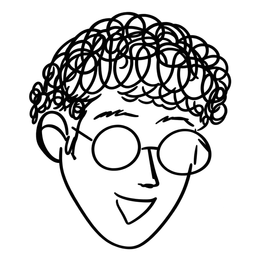
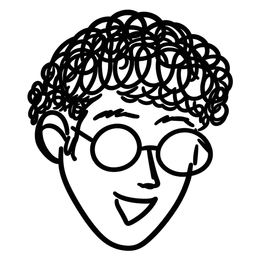
Refine portrait strokes and stack serif header name

Changed region(s): [[0.0938, 0.0312, 0.9375, 1.0]]

diff --git a/src/styles/global.css b/src/styles/global.css
@@ -5,6 +5,13 @@
   font-weight: 45 920;
   font-display: swap;
 }
+@font-face {
+  font-family: 'Cormorant Garamond';
+  src: url('/fonts/CormorantGaramond-Semibold-name.woff2') format('woff2');
+  font-style: normal;
+  font-weight: 600;
+  font-display: swap;
+}
 :root {
   color-scheme: light;
   --bg: #ffffff;
@@ -45,8 +52,9 @@ p { margin-bottom: 1.15em; }
 .skip-link:focus { transform: none; }
 .site-header { border-bottom: 1px solid var(--line); }
 .header-inner { display: flex; align-items: center; min-height: 88px; gap: 22px; position: relative; }
-.site-brand { display: flex; align-items: center; gap: 8px; color: var(--text); font-size: 14px; font-weight: 600; text-decoration: none; white-space: nowrap; }
-.site-brand-icon { flex: none; width: 36px; height: 36px; object-fit: contain; }
+.site-brand { --brand-icon-size: 64.8px; --brand-font-size: 25.2px; display: flex; align-items: center; gap: 12px; color: var(--text); font-family: 'Cormorant Garamond', var(--serif); font-size: var(--brand-font-size); line-height: 1; font-weight: 600; letter-spacing: -.015em; text-decoration: none; white-space: nowrap; }
+.site-brand-icon { flex: none; width: var(--brand-icon-size); height: var(--brand-icon-size); object-fit: contain; }
+.site-brand-name { display: grid; line-height: 1; }
 .site-navigation { display: none; position: absolute; top: 100%; right: 0; z-index: 30; width: 280px; margin: 0; padding: 16px 24px 24px; max-height: calc(100dvh - 88px); overflow-y: auto; background: var(--bg); border: 1px solid var(--line); border-radius: 0 0 6px 6px; box-shadow: 0 10px 24px #14251a0d; font-size: 13px; }
 .site-navigation.is-open { display: grid; gap: 0; }
 .site-navigation > a { padding: 11px 0; color: var(--muted); text-decoration: none; }
@@ -272,11 +280,10 @@ html[lang='ko'] .prose { line-height: 1.9; }
 }
 @media (max-width: 740px) {
   .container { width: calc(100% - 40px); }
-  .header-inner { min-height: 74px; gap: 14px; position: relative; }
-  .site-brand { font-size: 13px; }
-  .site-brand-icon { width: 28px; height: 28px; }
+  .header-inner { min-height: 88px; gap: 14px; padding-block: 16px; flex-wrap: wrap; position: relative; }
+  .site-brand { --brand-icon-size: clamp(40.8px, 12.6vw, 50.4px); --brand-font-size: clamp(18.9px, 5.85vw, 21.6px); }
   .header-controls { margin-left: auto; gap: 8px; }
-  .site-navigation { left: -20px; right: -20px; width: auto; max-height: calc(100dvh - 74px); border-inline: 0; border-radius: 0; box-shadow: 0 10px 15px #14251a06; }
+  .site-navigation { left: -20px; right: -20px; width: auto; max-height: calc(100dvh - 142px); border-inline: 0; border-radius: 0; box-shadow: 0 10px 15px #14251a06; }
   .hero { padding: 45px 0 35px; grid-template-columns: minmax(0, 1fr) clamp(112px, 32vw, 136px); grid-template-areas: 'heading portrait' 'contact contact' 'description description'; grid-template-rows: none; gap: 22px 18px; }
   .hero h1 { font-size: 37px; margin-bottom: 17px; }
   .hero-korean { font-size: 11px; margin-top: 12px; }

diff --git a/README.md b/README.md
@@ -55,7 +55,7 @@ Add future course notes as paired entries in `src/content/coursework/`, after ow
 
 Home combines the profile introduction, research interests, engineering narrative and contact information. On desktop, align the portrait with the start of the biography and keep a compact gap between them; on mobile, pair the name and portrait above the full-width biography. Keep the research/engineering introduction together, followed by one combined M.S./dual-bachelor background paragraph in the same biography block in both languages. Explicitly name the **KAIST–Georgia Tech Dual B.S. Degree Program** and link it to KAIST's official EN/KO program pages configured in `site.dualDegreeProgram`. Link **Prof. Jinseok Choi** (Korean: Jinseok Choi 교수님) to `https://sic-x.kaist.ac.kr/` through shared `site.kaistAdvisor`. The owner omits the parenthetical lab label; keep the lab URL on the advisor name. Use **Prof. Xiaoli Ma** for English Home mentions, including the introductory advisor link and M.S. sentence; Korean retains 교수님. End the biography with a complete localized referral sentence containing the **Curriculum Vitae** hyperlink to the HTML CV, using the body text size. Below the portrait, show only the two-line address followed by five icon-only controls in this order: email, GitHub, Google Scholar, ORCID, LinkedIn. There is no visible email string or separate biography profile row; keep accessible labels and the email icon's copy behavior. Remove the former Get in touch action. The interest line uses a 13px label and 16px topics (15px on mobile), wrapping as needed. Page-title overlines are omitted on Home, collection indexes, detail pages and 404; retain the CV overline. The complete education record remains in CV; Home includes the short academic background requested by the owner. The former `/about/` and `/ko/about/` routes redirect to their localized Home, preserving query strings and contact fragments.
 
-The header brand is **Sangeon Jeon** in both languages, preceded by the owner's cleaned hand-drawn portrait mark; localized biography names and page metadata remain separate. The transparent mark is `public/images/sangeon-jeon-mark.png` (36px displayed,28px on mobile). The same artwork is exported as `public/favicon.ico` (16/32/48px), `public/icons/favicon-16.png`, `favicon-32.png` and `apple-touch-icon.png` (180px), with a white background for tab-theme contrast. Shared `SiteIcons.astro` declares these on both regular pages and legacy redirects. Preserve the owner-selected curly-haired/glasses portrait; raw/reference generation files stay ignored. The header keeps the language selector visible and opens navigation through the top-right menu button at every screen width. Menu order is Home, Publications, Projects, Coursework, Ideas, Blog, CV, with corresponding Korean labels.
+The header brand is **Sangeon Jeon** in both languages, preceded by the owner's cleaned hand-drawn portrait mark; localized biography names and page metadata remain separate. The transparent, thicker-line mark is `public/images/sangeon-jeon-mark.png` (64.8px desktop,40.8-50.4px responsive mobile). The name is stacked as **Sangeon / Jeon** in self-hosted **Cormorant Garamond600**,25.2px desktop and18.9-21.6px mobile, vertically centred beside the image. The open font name subset and its OFL license are in `public/fonts/`. Small headers wrap controls onto another row rather than overlap the brand. The same artwork is exported as `public/favicon.ico` (16/32/48px), `public/icons/favicon-16.png`, `favicon-32.png` and `apple-touch-icon.png` (180px), with a white background for tab-theme contrast. Shared `SiteIcons.astro` declares these on both regular pages and legacy redirects; `v=2` refreshes cached thin-stroke exports. Preserve the owner-selected curly-haired/glasses portrait; raw/reference generation files stay ignored. The header keeps the language selector visible and opens navigation through the top-right menu button at every screen width. Menu order is Home, Publications, Projects, Coursework, Ideas, Blog, CV, with corresponding Korean labels.
 
 Blog and Ideas drafts live only in ignored `reference-private/writing-review/`. Previous CSV selections do not grant publication approval. Commit an article only after the owner explicitly approves that finished text; unapproved full text does not belong in tracked content even with a false release flag.
 

diff --git a/proj.md b/proj.md
@@ -160,7 +160,7 @@ Keep Home's established name/portrait hero and interest line. Use a readable 13p
 
 - Use Astro static generation, TypeScript where useful, and Markdown/MDX content collections. Select supported APIs and compatible dependencies from official documentation at implementation time; this brief does not pin an unverified framework version.
 - Host on GitHub Pages for the user-site root `https://eonsjeon.github.io/`, with GitHub Actions for deployment. Do not add a repository-name base path for this user-site repository.
-- Use a clean **white background**, readable typography, comfortable text widths, clear hierarchy, generous spacing, neutral text/borders, and a limited accent color. The header brand is **Sangeon Jeon** in both languages, independent of localized biography names and metadata. Place the owner's cleaned hand-drawn portrait mark immediately before it: preserve the curly hair, round glasses and smiling face; do not substitute an initials monogram. Use the same artwork for browser-tab and Apple touch icons. The header PNG is transparent; tiny favicon exports have a white background for contrast across browser themes. Keep the icon decorative/accessibility-hidden beside the named Home link, and fit the name, language selector and menu at320px. This owner-selected artwork supersedes the former plain-name/no-favicon rule. Mark intentionally untranslated text with nearby non-rendering source comments (`번역 금지`) so later translation work preserves these choices.
+- Use a clean **white background**, readable typography, comfortable text widths, clear hierarchy, generous spacing, neutral text/borders, and a limited accent color. The header brand is **Sangeon Jeon** in both languages, independent of localized biography names and metadata. Place the owner's cleaned hand-drawn portrait mark immediately before it: preserve the curly hair, round glasses and smiling face; do not substitute an initials monogram. Use the same artwork for browser-tab and Apple touch icons. The header PNG is transparent; tiny favicon exports have a white background for contrast across browser themes. Keep the portrait's dense curl pattern and facial features while using stronger strokes. The final owner-selected composition stacks the name as **Sangeon / Jeon**, with a64.8px desktop portrait and25.2px name in self-hosted Cormorant Garamond600; keep its OFL license. On mobile, use a40.8-50.4px icon and18.9-21.6px name, preserving the two-line name and wrapping controls only if needed. Keep the icon decorative/accessibility-hidden beside the named Home link, and fit the name, language selector and menu at320px. This owner-selected artwork supersedes the former plain-name/no-favicon rule. Mark intentionally untranslated text with nearby non-rendering source comments (`번역 금지`) so later translation work preserves these choices.
 - Provide responsive desktop/mobile navigation, accessible semantic HTML, visible keyboard focus, meaningful link text, and sufficient contrast. Omit the small overline above page titles on all pages except CV, in both languages; retain CV's existing overline. This includes Home, collection indexes, project/coursework details and 404, while keeping useful breadcrumbs and content metadata.
 - Provide full Korean and English versions. Preserve existing English URLs, and use `/ko/` for Korean pages, including Home, About, CV, 404, all indexes and selected article translations. Keep a visible `En` / `한` selector in the header on desktop and mobile, with the current language marked and full accessible names `한국어` / `English`. Switch to the same article when its approved translation exists; otherwise link to the target-language collection index and advertise no nonexistent translation in hreflang metadata.
 - The owner works directly in Korean. Keep editable `<slug>.ko.md` beside each English `<slug>.md`, paired by `translationKey`. Filter routes, lists, Home previews, and RSS by language and release flags. Korean-only authoring must work without an English placeholder. Localize document language, canonical/alternate URLs, metadata, UI, captions, and contact feedback. Do not turn the notes or unapproved translations into public entries automatically.
